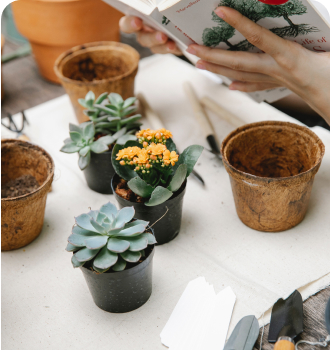
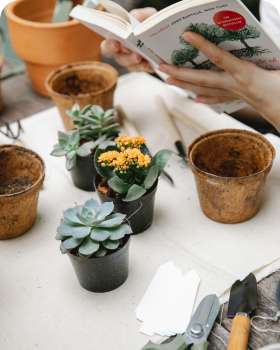
init: Add  tablet version

diff --git a/plants/style.css b/plants/style.css
@@ -92,10 +92,13 @@ body {
 }
 
 .welcome__columns {
-    display: grid;
-    grid-template-columns: 448.8px 549px;
-    grid-template-rows: 1fr;
-    justify-content: space-between
+    display: flex;
+    flex-direction: column;
+    flex-wrap: wrap;
+    width: 448.8px;
+    height: 549px;
+    justify-content: flex-start;
+    grid-gap: 223px;
 }
 
 .welcome__column-one > img {
@@ -251,6 +254,9 @@ body {
 
 .service__img {
     display: block;
+    width: 329px;
+    height: 350px;
+    object-fit: cover;
 }
 
 .service__description {
@@ -409,6 +415,7 @@ body {
 }
 
 .contacts__title {
+    grid-area: title;
     font-family: 'Inika';
     font-weight: 700;
     font-size: 40px;
@@ -423,14 +430,17 @@ body {
     grid-template-columns: 1fr 197px 1fr; 
     grid-template-rows: 1fr;  
     align-content: space-around;
+    grid-template-areas: "image title location";
 }
 
 .contacts__img {
+    grid-area: image;
     width: 400px;
     height: 496.99px;
 }
 
 .location__container {
+    grid-area: location;
     padding-top: 95px;
     display: flex;
     justify-content: flex-end;
@@ -517,3 +527,237 @@ select:active, select:hover {
     width: 32px;
     height: 32px;
 }
+
+/* Adaptive tablet */
+@media (max-width: 768px) { 
+    body {
+        width: 768px;
+    }
+
+    .wrapper {
+        max-width: 768px;
+        padding: 35px 50px;    
+        margin: 0;
+    }
+
+    .welcome .wrapper {
+        height: 420px;
+    }
+
+    .welcome__columns {
+        flex-direction: row-reverse;
+        flex-wrap: nowrap;
+        width: 668px;
+        height: 310px;
+        column-gap: 42px;
+        padding-bottom: 92px;
+        align-items: center;
+        justify-content: center;
+    }
+
+    .welcome__column-one > img {
+        width: 280px;
+        height: 254px;
+        margin-bottom: 14px;
+    }
+
+    .welcome__title {
+        font-size: 35px;
+    }
+
+    .welcome__text {
+        font-size: 16px;
+        line-height: 25px;
+        margin-top: 30px;
+        padding-left: 5px;
+    }
+
+    .learn-more__btn {
+        margin-top: 34px;
+        margin-bottom: -10px;
+    }
+
+    .about {
+        height: 783px;
+        width: 768px;
+    }
+
+    .about .wrapper {
+        padding: 40px 50px 95px;
+    }
+
+    .about__columns {
+        display: grid;
+        grid-auto-flow: row;
+        grid-template-columns: 1fr;
+        align-items: start;
+    }
+
+    .about__column-one {
+        width: auto;
+        height: auto;
+    }
+
+    .about__column-two {
+        padding: 0;
+        margin-top: 40px;
+    }
+    
+    .about__title {
+        text-align: center;
+        font-size: 35px;
+        line-height: 45px;
+        padding: 0 130px 40px;
+        margin: 0;
+        height: 102px;
+        box-sizing: content-box;
+    }
+
+    .about__text {
+        height: 208px;
+        box-sizing: content-box;
+    }
+    
+    
+    .about__img {
+        width: 250px; 
+        height: 258px;
+        padding: 0;
+        box-sizing: unset;
+    }
+
+    .service {
+        height: 1780px;
+    }
+
+    .service .wrapper {
+        padding: 60px 50px 95px;
+    }
+
+    .service-navigation__columns {
+        grid-template-columns: 1fr;
+        margin-bottom: 41px;
+    }
+
+    .service__title {
+        font-size: 35px;
+        line-height: 46px;
+    }
+
+    .service__buttons {
+        margin-top: 38px;
+        padding-left: 0px;
+    }
+
+    .service__list {
+        grid-template-columns: 281px 281px;
+        align-items: start;
+        grid-template-rows: 1fr 1fr 1fr;
+    }
+
+    .service__cell {
+        width: 281px;
+        height: 450px;
+        margin-bottom: 38px;
+    }
+
+    .service__img {
+        width: 280px;
+        height: 350px;
+    }
+
+    .project__description {
+        text-align: center;
+        width: 203px;
+        height: 42px;
+        margin-left: 38px;
+        margin-bottom: 12px;
+    }
+
+    .service__cell:nth-child(2n + 1) .project__title {
+        margin-bottom: 10px;
+    }
+
+    .slogan-btn__container {
+        width: 296px;
+        font-size: 25px;
+        line-height: 35px;
+    }
+
+    .prices {
+        height: 585px;
+    }
+
+    .prices__title {
+        font-size: 35px;
+        line-height: 42px;
+        padding-left: 15px;
+    }
+
+    .right__column {
+        gap: 30px;
+    }
+    
+    .prices-slogan {
+        font-size: 25px;
+        line-height: 35px;
+        padding-top: 102px;
+    }
+
+    .contacts {
+        height: 739px;
+    }
+ 
+    .contacts__container {
+        padding-top: 0px;
+        grid-template-areas:
+            "title"
+            "location"
+            "image";
+        grid-template-columns: 1fr;
+        justify-items: center;
+    }
+
+    .contacts__img {
+        width: 200px;
+        height: 248px;
+        margin-top: 249px;
+        margin-left: 19px;
+    }
+
+    .footer {
+        height: 181px;
+    }
+
+    .footer .wrapper {
+        padding: 15px 109px 0;
+    }
+
+    .footer__container {
+        flex-wrap: wrap;
+        flex-direction: column;
+        align-content: center;
+        align-items: center;
+    }
+
+    .rs-school__link {
+        padding-left: 0px;
+    }
+
+    .rs-school__link a {
+        line-height: 38px;
+    }
+
+    .social-nets__container {
+        margin-top: 15px;
+    }
+}
+
+
+
+
+
+
+
+
+/* Adaptive mobile */
